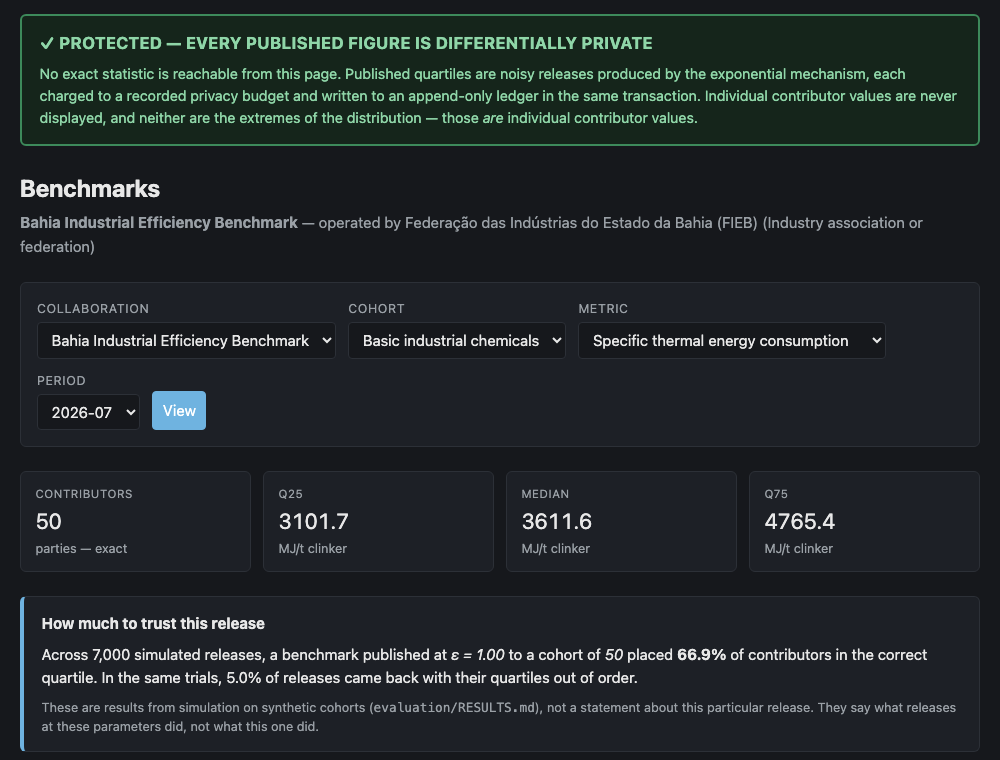
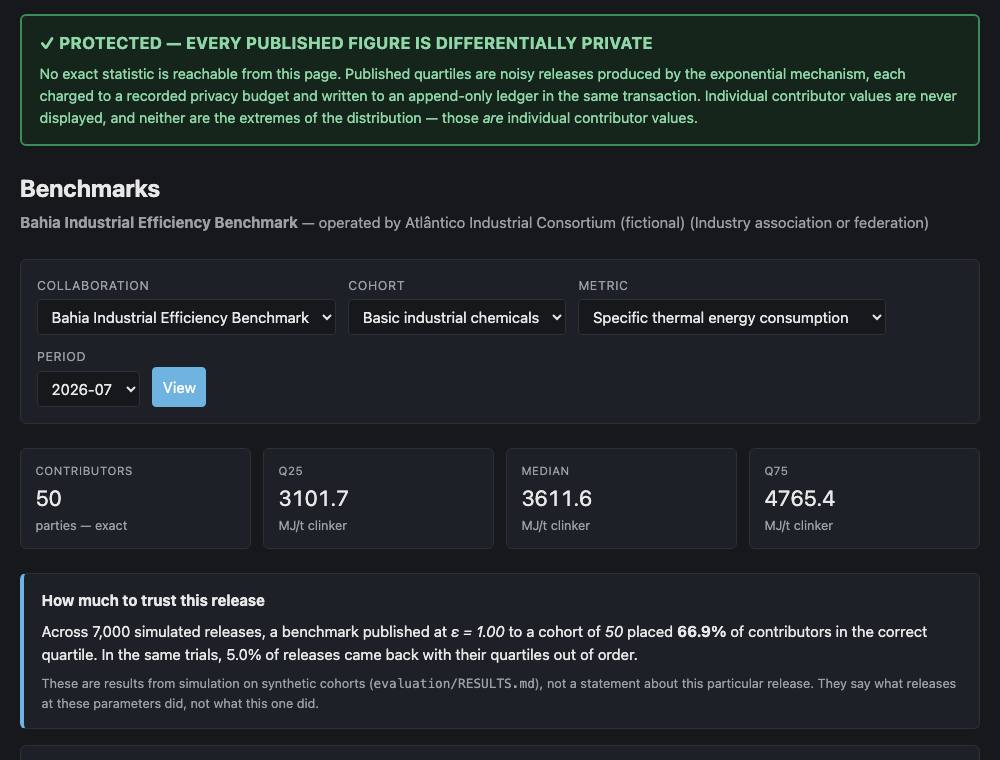
Replace the demo operator with a fictional consortium, add LinkedIn
The seeded demo collaboration named a real organisation as its operator, and
the future backlog referred to it once. This is a personal project and should
not read as any real institution's product or data. The demo operator is now
"Atlântico Industrial Consortium (fictional)", and the opening README screenshot
was retaken to match.

The deployed hub reruns seed_demo on boot, and seed_demo updates the
collaboration by slug, so the live dashboard picks up the new name on the next
deploy with no manual data change.

Also adds a LinkedIn link to the README footer.

diff --git a/hub/contributors/management/commands/seed_demo.py b/hub/contributors/management/commands/seed_demo.py
@@ -37,7 +37,7 @@ COLLABORATION = {
         "Members submit monthly efficiency aggregates and receive protected "
         "sector benchmarks in return."
     ),
-    "operator_name": "Federação das Indústrias do Estado da Bahia (FIEB)",
+    "operator_name": "Atlântico Industrial Consortium (fictional)",
     "operator_kind": OperatorKind.ASSOCIATION,
     "min_contributors": 5,
 }

diff --git a/docs/FUTURE-BACKLOG.md b/docs/FUTURE-BACKLOG.md
@@ -185,8 +185,8 @@ differential privacy at all.
 
 ### F-11 · Purpose limitation and LGPD artifacts · product · 5 days
 Declared purpose per metric and per query; a generated record of processing
-activities; the inputs a DPIA needs. Brazil-specific and directly aligned with
-FIEB's institutional role.
+activities; the inputs a DPIA needs. Brazil-specific, and exactly what an
+industry association or regulator running a collaboration would be asked for.
 
 ### F-12 · Human approval gate before release · product · 3 days
 A release proposal that a named person approves, with the approval in the

diff --git a/README.md b/README.md
@@ -287,4 +287,5 @@ the [future backlog](docs/FUTURE-BACKLOG.md).
 ---
 
 Made by **Jorge Luis dos Santos Mendes**, a chemical engineer and data engineer
-based in Salvador, Brazil. [GitHub](https://github.com/jorgel-mendes)
+based in Salvador, Brazil.
+[LinkedIn](https://www.linkedin.com/in/jorgelsmendes/) · [GitHub](https://github.com/jorgel-mendes)
